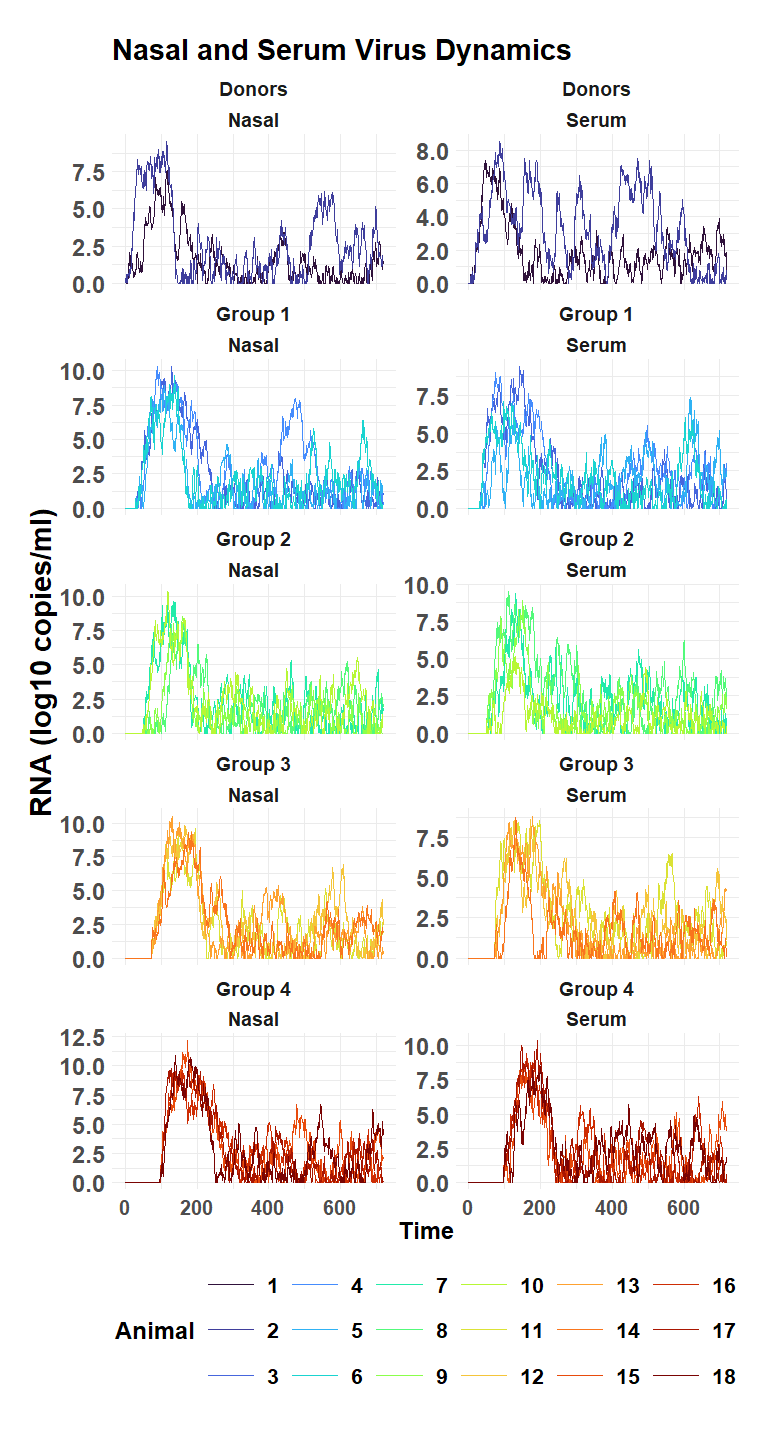
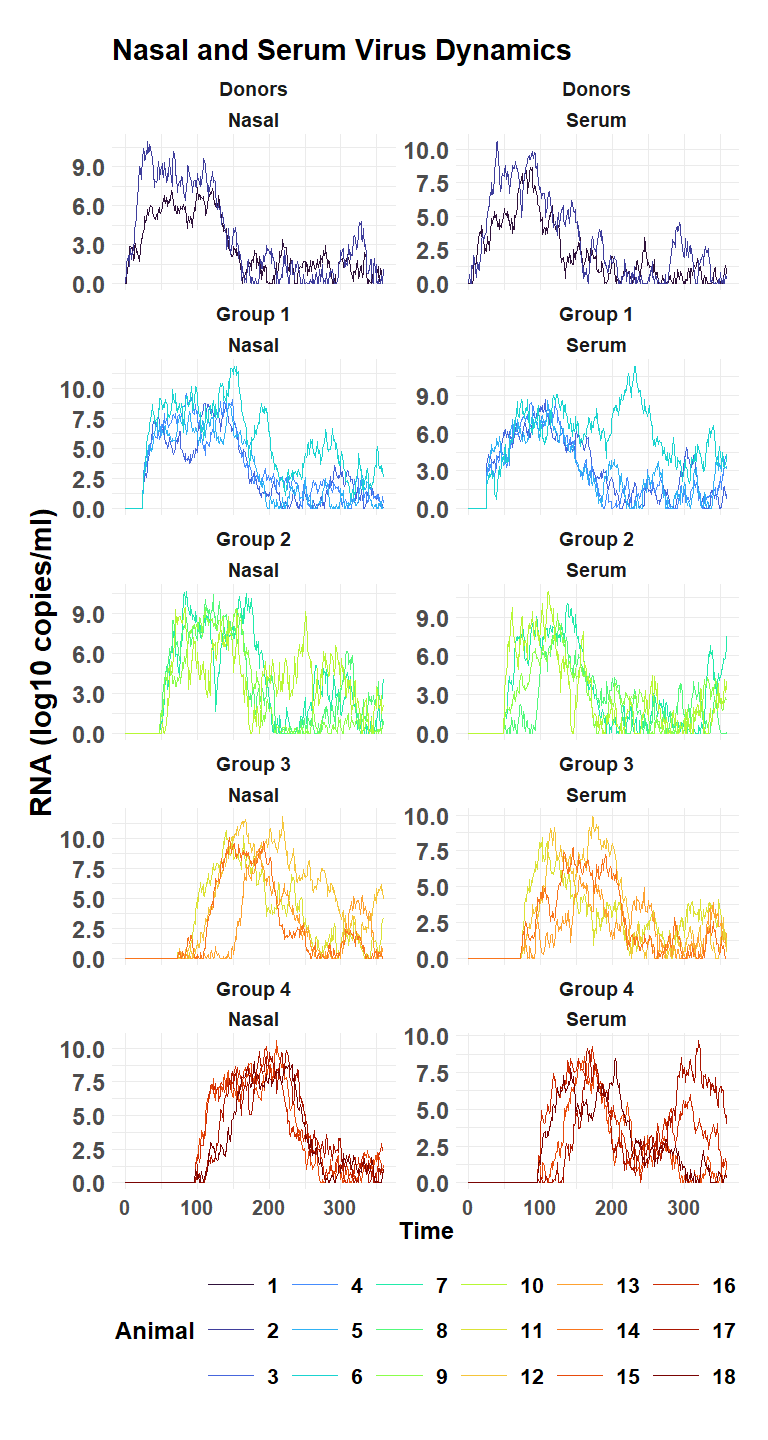
update README

diff --git a/README.md b/README.md
@@ -38,18 +38,7 @@ remotes::install_github("geoepi/challengeABM")
 * [Technical Details](#technical-details)
     * [Core Mechanisms](#core-mechanisms)
     * [Parameters](#parameters)
-* [System Requirements](#system-requirements)
-* [Installation](#installation)
-* [Getting Started](#getting-started)
-    * [Running a Simulation](#running-a-simulation)
-    * [Configuration Files](#configuration-files)
-    * [Output Data](#output-data)
-* [Model Documentation (ODD Protocol)](#model-documentation-odd-protocol)
 * [Directory Structure](#directory-structure)
-* [Contributing](#contributing)
-* [License](#license)
-* [Citation](#citation)
-* [Contact](#contact)
 
 ---
 
@@ -110,16 +99,14 @@ The primary purpose of `challengeABM` is to:
 ## Technical Details
 
 ### Core Mechanisms
+See, the [Agent-Based Model Overview, Design concepts, Details](https://github.com/geoepi/challengeABM/blob/main/ODD_Decription.md)
 
-* **Within-Host Viral Dynamics (R2R, Herd):** Modeled using a logistic growth equation:
-    ```
-    dV/dt = rV(1 - V/K) - cV + ε
-    ```
+* **Within-Host Viral Dynamics (R2R, Herd):** Modeled using a logistic growth equation:  
+  
 * **Dose-Response Function (R2R, Herd, implicitly in Between-Farm via `simulate_net_model`):** A Hill-type sigmoid function determines infection probability based on exposure dose.
-    ```
-    DoseEff = E_max / (1 + exp[-λ(V_inf/K_inf - θ_adj)])
-    ```
-* **Probabilistic State Transitions (Between-Farm):** Agents transition through `Noninfectious`, `Preclinical`, and `Clinical` states with durations sampled from Weibull distributions.
+  
+* **Probabilistic State Transitions (Between-Farm):** Agents transition through `Noninfectious`, `Preclinical`, and `Clinical` states with durations sampled from Weibull distributions.  
+  
 * **Network Generation (Between-Farm):** Uses standard graph theory algorithms for `erdos`, `smallworld`, or `geometric` networks. Movement probability in geometric networks can decay exponentially with distance: `exp(-lambda * distance)`.
 
 
@@ -135,4 +122,29 @@ All model parameters are defined in YAML configuration files (see `config/` dire
 * Probabilistic progression parameters for between-farm module (median onset/duration times for preclinical/clinical states and their CIs)
 * Between-herd network parameters (number of farms, graph type, distance decay factors)
 * Between-herd movement and control parameters (movement probability/interval/fraction, inter-farm transmission probability, detection delay, quarantine triggers)
-* Random seed for reproducibility
+* Random seed for reproducibility  
+  
+## Repo Contents  
+```
+challengeABM/
+├── DESCRIPTION                # Package metadata
+├── NAMESPACE                  # Export/import definitions
+├── README.md                  # Package overview
+├── R/                         # .R functions
+│   ├── generate_network.R
+│   ├── simulate_model.R
+│   └── ...                    # Other function scripts
+├── man/                       # Rd documentation files
+│   ├── generate_network.Rd
+│   └── simulate_model.Rd
+|   └── ... 
+├── config/                    # Parameter configuration files 
+├── articles/                  # Usage and analysis examples
+│   └── within-herd.qmd
+|   └── ... 
+├── .gitignore                 # Git ignore list
+├── renv                       # package/environment management
+├── shiny                      # simple shiny (room-to-room demo)
+└── ODD_Decription.md          # Detailed model description
+```
+

diff --git a/articles/within_herd_transmission.md b/articles/within_herd_transmission.md
@@ -56,7 +56,7 @@ seed_val
 
 </details>
 
-    [1] 245
+    [1] 175
 
 <details open>
 <summary>Hide code</summary>
@@ -74,7 +74,45 @@ parameters..
 <summary>Hide code</summary>
 
 ``` r
-model_result <- simulate_within_herd(here("config/base_config_fmdv.yaml"))
+model_result <- simulate_within_herd(here("config/base_config_fmdv.yaml"),
+                                     num_donors = 2,
+                                     preclin_infect = TRUE,
+                                     contact_rate = 0.25,
+                                     seed = seed_val)
+
+saveRDS(model_result, here("local/demo/model_result_herd_2025-06-13.rds"))
+```
+
+</details>
+
+Download saved copy from OSF
+
+<details open>
+<summary>Hide code</summary>
+
+``` r
+osf_id <- osf_project_demo %>%
+  osf_ls_files() %>%
+  filter(name == "model_result_herd_2025-06-13.rds") # file to download
+
+osf_download(osf_id,
+             path = here("local/temp"), # where to save
+             conflicts = "overwrite")
+```
+
+</details>
+
+    # A tibble: 1 × 4
+      name                             id                    local_path meta        
+      <chr>                            <chr>                 <chr>      <list>      
+    1 model_result_herd_2025-06-13.rds 684cc2c7559e9edbf0cc… D:/Github… <named list>
+
+<details open>
+<summary>Hide code</summary>
+
+``` r
+# read save file to environment
+model_result <- readRDS(here("local/temp/model_result_herd_2025-06-13.rds"))
 ```
 
 </details>
@@ -92,7 +130,7 @@ plot_individual_virus_loads(model_result, sample_n = 21)
 
 </details>
 
-![](within_herd_transmission_files/figure-commonmark/unnamed-chunk-5-1.png)
+![](within_herd_transmission_files/figure-commonmark/unnamed-chunk-8-1.png)
 
 ## Herd Outbreak Curve
 
@@ -107,4 +145,4 @@ plot_herd_curve(model_result)
 
 </details>
 
-![](within_herd_transmission_files/figure-commonmark/unnamed-chunk-6-1.png)
+![](within_herd_transmission_files/figure-commonmark/unnamed-chunk-9-1.png)

diff --git a/articles/room_to_room_transmission.md b/articles/room_to_room_transmission.md
@@ -65,7 +65,7 @@ seed_val
 
 </details>
 
-    [1] 1188
+    [1] 1817
 
 <details open>
 <summary>Hide code</summary>
@@ -83,7 +83,9 @@ parameters..
 <summary>Hide code</summary>
 
 ``` r
-model_result <- simulate_room_to_room(here("config/base_config_fmdv.yaml"))
+model_result <- simulate_room_to_room(here("config/base_config_fmdv.yaml"), # default parameters
+                                      num_infected = 2, # modify default to ensure 2 donors (like animal experiment)
+                                      num_hours = 360) # modify default to only run 360 time steps (hours)
 ```
 
 </details>
